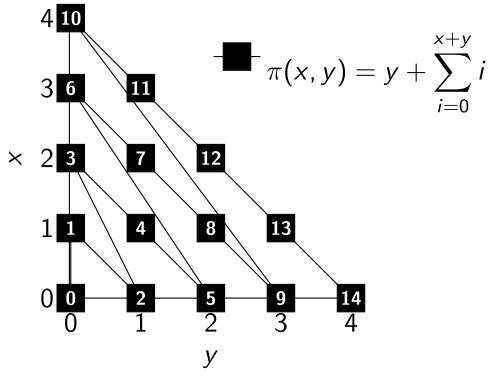
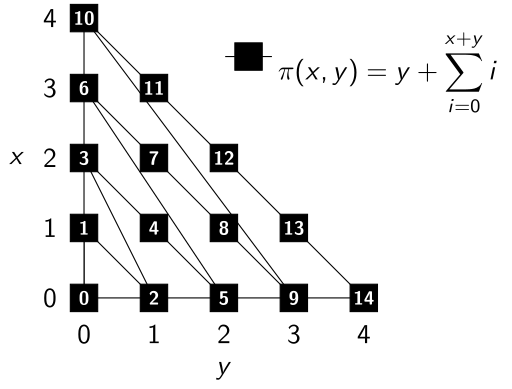
Improve Quality for commos QI

diff --git a/tikz/pairing-function/pairing-function.tex b/tikz/pairing-function/pairing-function.tex
@@ -30,9 +30,12 @@
     compat=newest, % for better label placement
     font=\sansmath\sffamily, % math and normal text in sans serif
     xlabel=$y$, ylabel=$x$, % the label texts
+    ylabel style={rotate=-90},
     xmin=0, ymin=0, % axis origin
     enlarge y limits=false, % don't enlarge the y axis beyond the data range
-    enlarge x limits={upper,abs=0.02}, % enlarge x axis slightly to make sure the last tick mark is drawn completely
+    enlarge x limits={upper,abs=0}, % enlarge x axis slightly to make sure the last tick mark is drawn completely
+    xticklabel style={yshift=-1ex},
+    yticklabel style={xshift=-1ex},
     axis lines*=left, % only draw the left axis lines, not a box
     unit vector ratio*={1 1 1}, % equal axis scaling. "*" to make sure the axes can only be reduced in size, not enlarged
     width=6cm, % set the overall width of the plot
